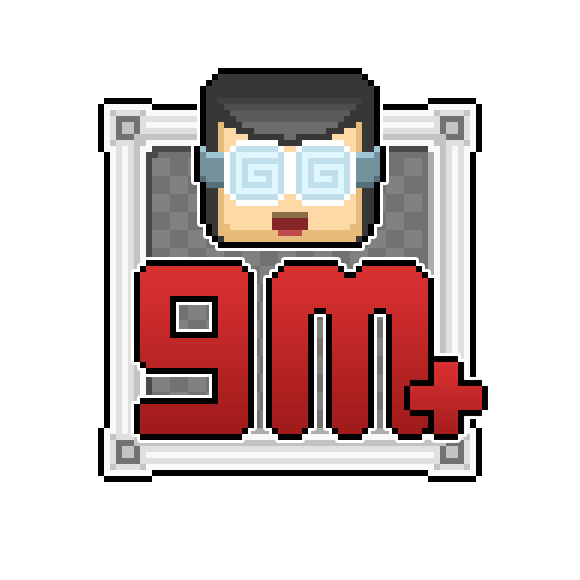
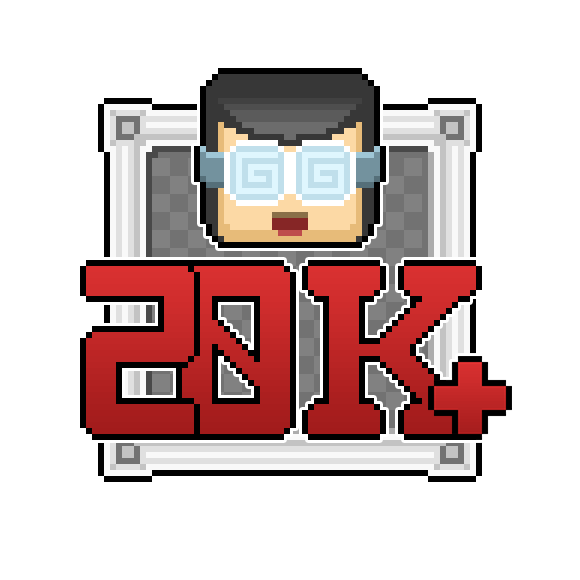
update artwork and landing links

Changed region(s): [[0.1241, 0.4345, 0.5897, 0.7759], [0.6207, 0.4345, 0.9, 0.7759], [0.5586, 0.4345, 0.6207, 0.4966]]

diff --git a/src/pages/index.tsx b/src/pages/index.tsx
@@ -238,9 +238,11 @@ const Home: PageLayoutProps = () => {
                 }}
                 className="flex-grow flex justify-center items-center relative w-full h-44 rounded-3xl overflow-hidden"
               ></div>
+              <Link href="/im-brand-owner">
               <button className="w-full md:w-52 px-5 py-2 border border-black bg-black text-white rounded font-montserrat font-bold hover:opacity-90 hover:shadow-lg">
                 Get A Free Demo
               </button>
+              </Link>
             </div>
             <div className="flex flex-col items-center space-y-6">
               <p className="text-center font-montserrat font-extrabold text-4xl md:text-3xl">
@@ -256,9 +258,11 @@ const Home: PageLayoutProps = () => {
                 }}
                 className="flex-grow flex justify-center items-center relative w-full h-44 rounded-3xl overflow-hidden"
               ></div>
+              <Link href="/im-gamer">
               <button className="w-full md:w-52 px-5 py-2 border border-black bg-black text-white rounded font-montserrat font-bold hover:opacity-90 hover:shadow-lg">
                 Play a game
               </button>
+              </Link>
             </div>
           </div>
         </Section>

diff --git a/src/pages/im-gamer.tsx b/src/pages/im-gamer.tsx
@@ -105,10 +105,10 @@ const ImGamer: PageLayoutProps = () => {
             <div className="flex flex-col md:w-1/3 items-center justify-center md:items-start space-y-6 md:space-y-2">
               <div className="max-w-xs md:h-32 md:w-32 flex justify-center rounded-lg overflow-hidden">
                 <img
-                  src="/assets/images/01 Home/EG---Landing-home_info(D).png"
+                  src="/assets/images/04 Gamer/EG---cat.png"
                   width={800}
                   height={800}
-                  alt="home-2"
+                  alt="EG---cat "
                 />
               </div>
               <p className="text-center md:text-left font-montserrat font-extrabold text-4xl">
@@ -136,7 +136,7 @@ const ImGamer: PageLayoutProps = () => {
             </div>
             <div
               style={{
-                backgroundImage: "url('/assets/images/home-2.png')",
+                backgroundImage: "url('/assets/images/04 Gamer/EG---Landing-gamer_playgame(D).jpg')",
                 backgroundSize: "cover",
                 backgroundPosition: "center",
               }}
